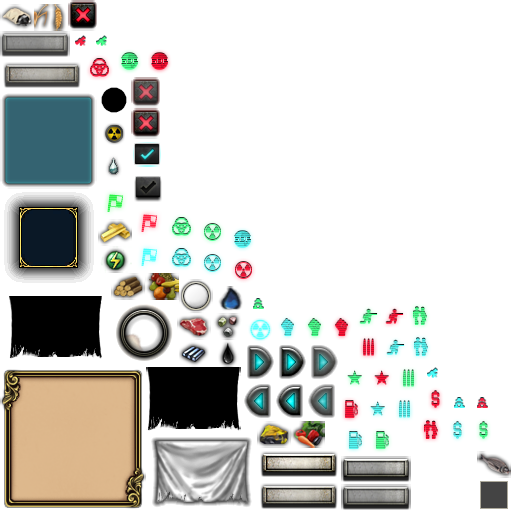
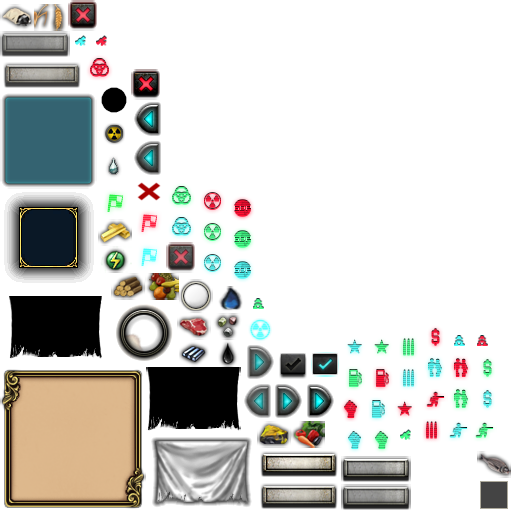
chore : default resource
Add a default resource png a cross

if a region doesnt have a resource show the none resource png

Changed region(s): [[0.5, 0.5938, 0.9688, 0.875], [0.2188, 0.0938, 0.5, 0.5625], [0.125, 0.0, 0.2188, 0.0938]]

diff --git a/core/src/main/java/com/populaire/projetguerrefroide/ui/ProvincePanel.java b/core/src/main/java/com/populaire/projetguerrefroide/ui/ProvincePanel.java
@@ -135,12 +135,16 @@ public class ProvincePanel extends Table {
     }
 
     public void setResourceImage(String name) {
+        Drawable resource;
         if(name != null) {
-            Drawable resource = this.skinUi.getDrawable("resource_" + name + "_small");
-            this.resourceImage.setDrawable(resource);
-            this.resourceImage.setSize(resource.getMinWidth(), resource.getMinHeight());
-            this.resourceImage.setPosition(22, 160);
+            resource = this.skinUi.getDrawable("resource_" + name + "_small");
+        } else {
+            resource = this.skinUi.getDrawable("resource_none_small");
         }
+
+        this.resourceImage.setDrawable(resource);
+        this.resourceImage.setSize(resource.getMinWidth(), resource.getMinHeight());
+        this.resourceImage.setPosition(22, 160);
     }
 
     public void setProvinceName(String name) {
